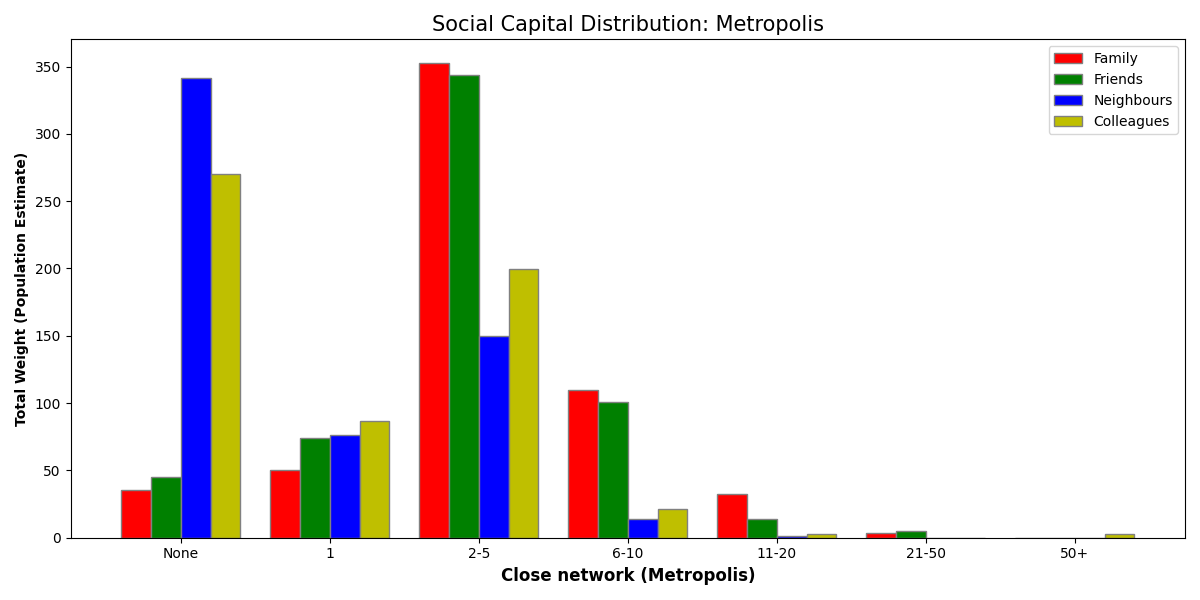
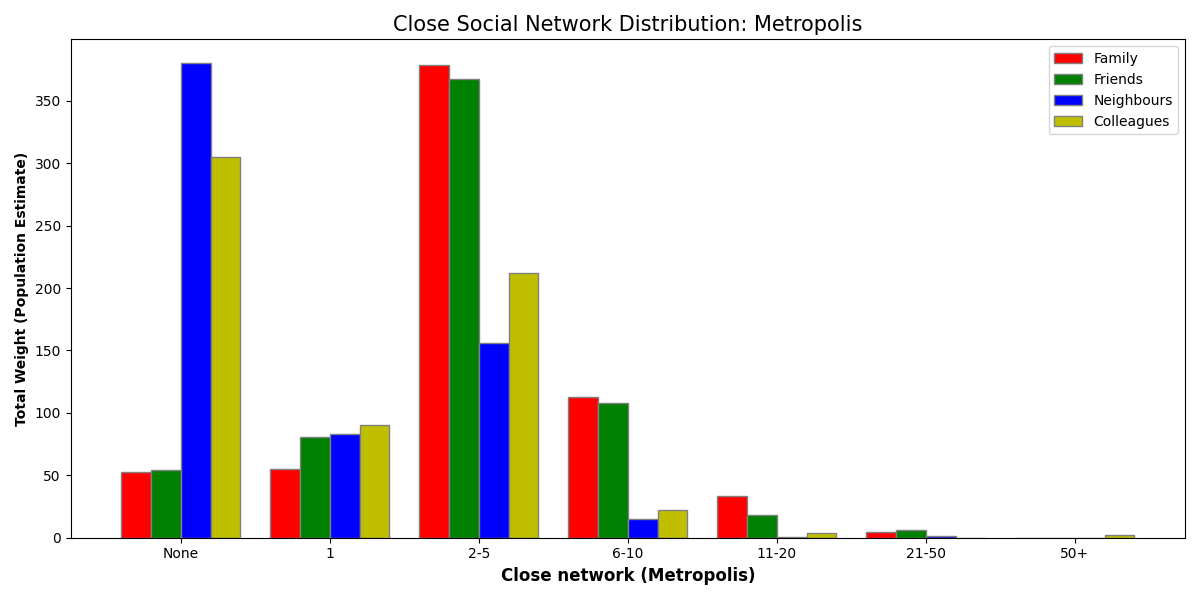
distinction total and close social network

diff --git a/Code/graph/Generating_graphs_knows.py b/Code/graph/Generating_graphs_knows.py
@@ -55,15 +55,15 @@ for title, mask in masks.items():
     ax.bar(br4, col, color='y', width=barWidth, edgecolor='grey', label='Colleagues')
     
     # Mise en forme
-    ax.set_xlabel(f'Close network ({title})', fontweight='bold', fontsize=12)
+    ax.set_xlabel(f'Total network ({title})', fontweight='bold', fontsize=12)
     ax.set_ylabel('Total Weight (Population Estimate)', fontweight='bold')
     ax.set_xticks([r + 1.5 * barWidth for r in range(len(fam))])
     ax.set_xticklabels(['None', '1', '2-5', '6-10', '11-20', '21-50', '50+'])
     
-    ax.set_title(f'Social Capital Distribution: {title}', fontsize=15)
+    ax.set_title(f'Total Social Network Distribution: {title}', fontsize=15)
     ax.legend()
     
     plt.tight_layout()
     #plt.show()
 
-    plt.savefig(f'outputs/histograms_knows/social_capital_{title.lower().replace(" ", "_")}.png')
+    plt.savefig(f'outputs/histograms_knows/total_social_capital_{title.lower().replace(" ", "_")}.png')

diff --git a/Code/graph/social_capital_position.py b/Code/graph/social_capital_position.py
@@ -49,15 +49,17 @@ pg_min = prestige_accessible.min(axis=1)
 # Si pg_diversity > 1, on fait Max - Min, sinon 0
 capsoc['pg_range'] = (pg_max - pg_min).fillna(0)
 
-# 3. Réorganisation des colonnes
+# 3. Réorganisation des colonnes (équivalent du select everything)
 cols_to_front = ['pg_diversity', 'pg_upper', 'pg_range']
 other_cols = [c for c in capsoc.columns if c not in cols_to_front]
 capsoc = capsoc[cols_to_front + other_cols]
 
 
 ## Résultats 
+# On crée une colonne vide
 capsoc['habitat_cat'] = np.nan
 
+# On remplit selon tes masques existants
 for name, mask in masks.items():
     capsoc.loc[mask, 'habitat_cat'] = name
 
@@ -74,7 +76,7 @@ sns.scatterplot(x='habitat_cat', y='pg_diversity', data=df_means, s=200, color='
 
 plt.ylim(4.5, 7)
 
-plt.title('Social capital diversity')
+plt.title('Social')
 plt.ylabel('Moyenne (Diversity)')
 plt.xlabel('')
 plt.grid(axis='y', linestyle=':', alpha=0.5)

diff --git a/Code/graph/Generating_graphs_close.py b/Code/graph/Generating_graphs_close.py
@@ -59,7 +59,7 @@ for title, mask in masks.items():
     ax.set_xticks([r + 1.5 * barWidth for r in range(len(fam))])
     ax.set_xticklabels(['None', '1', '2-5', '6-10', '11-20', '21-50', '50+'])
     
-    ax.set_title(f'Social Capital Distribution: {title}', fontsize=15)
+    ax.set_title(f'Close Social Network Distribution: {title}', fontsize=15)
     ax.legend()
     
     plt.tight_layout()
